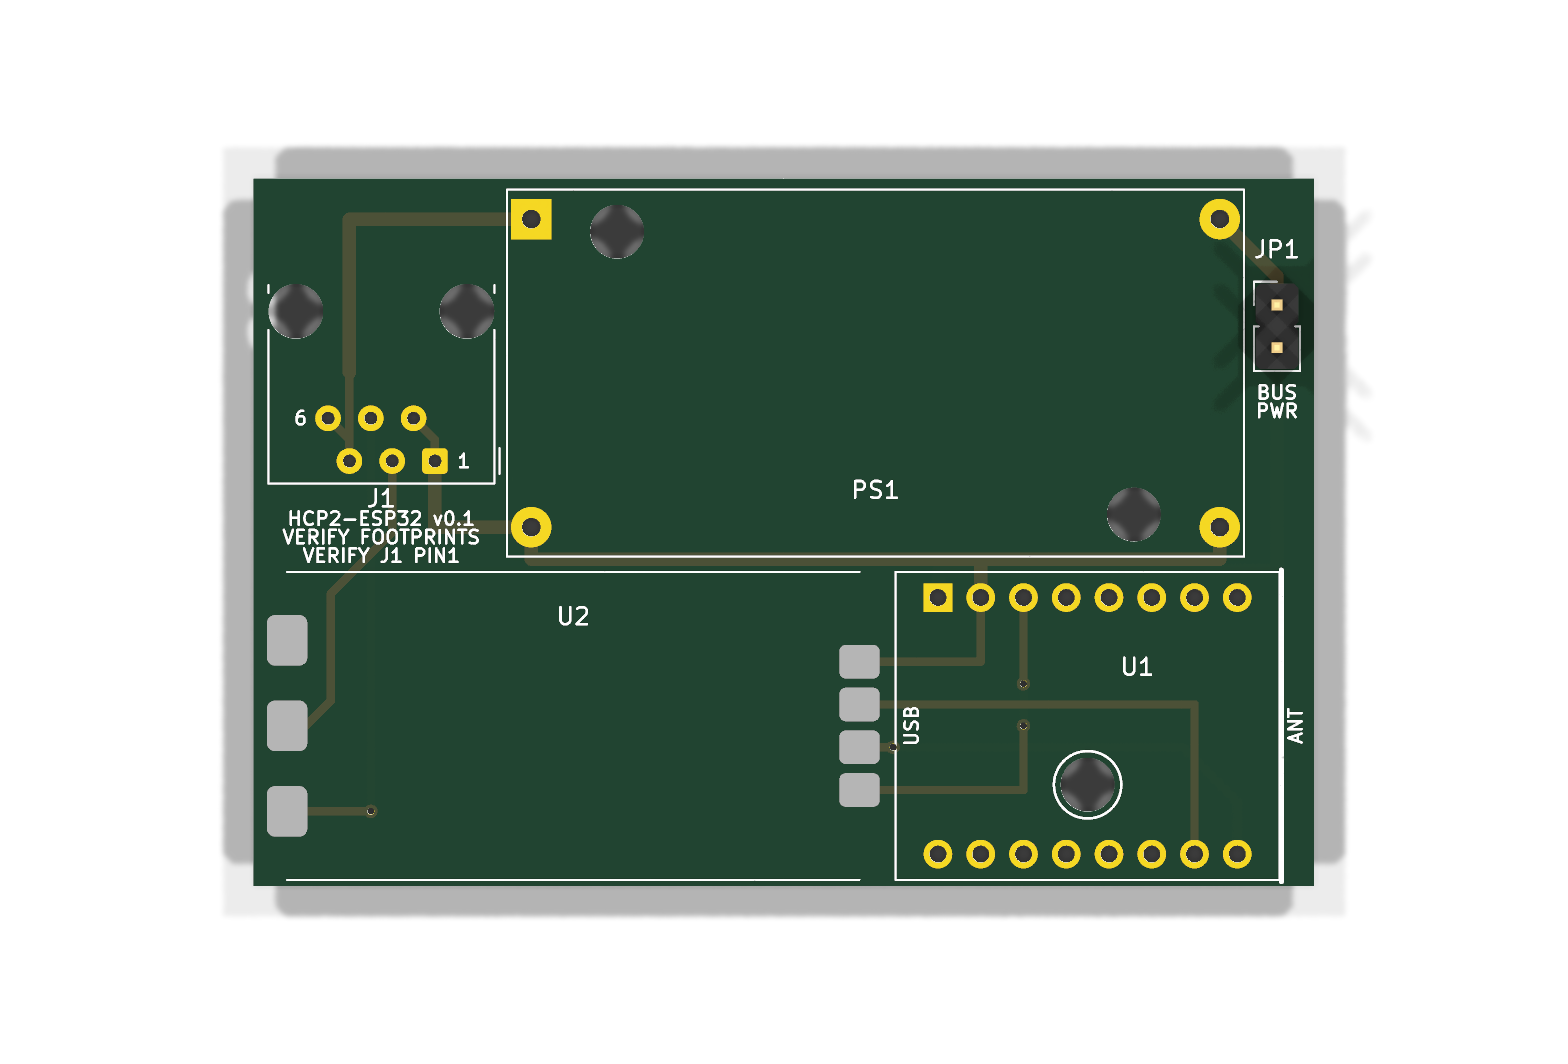
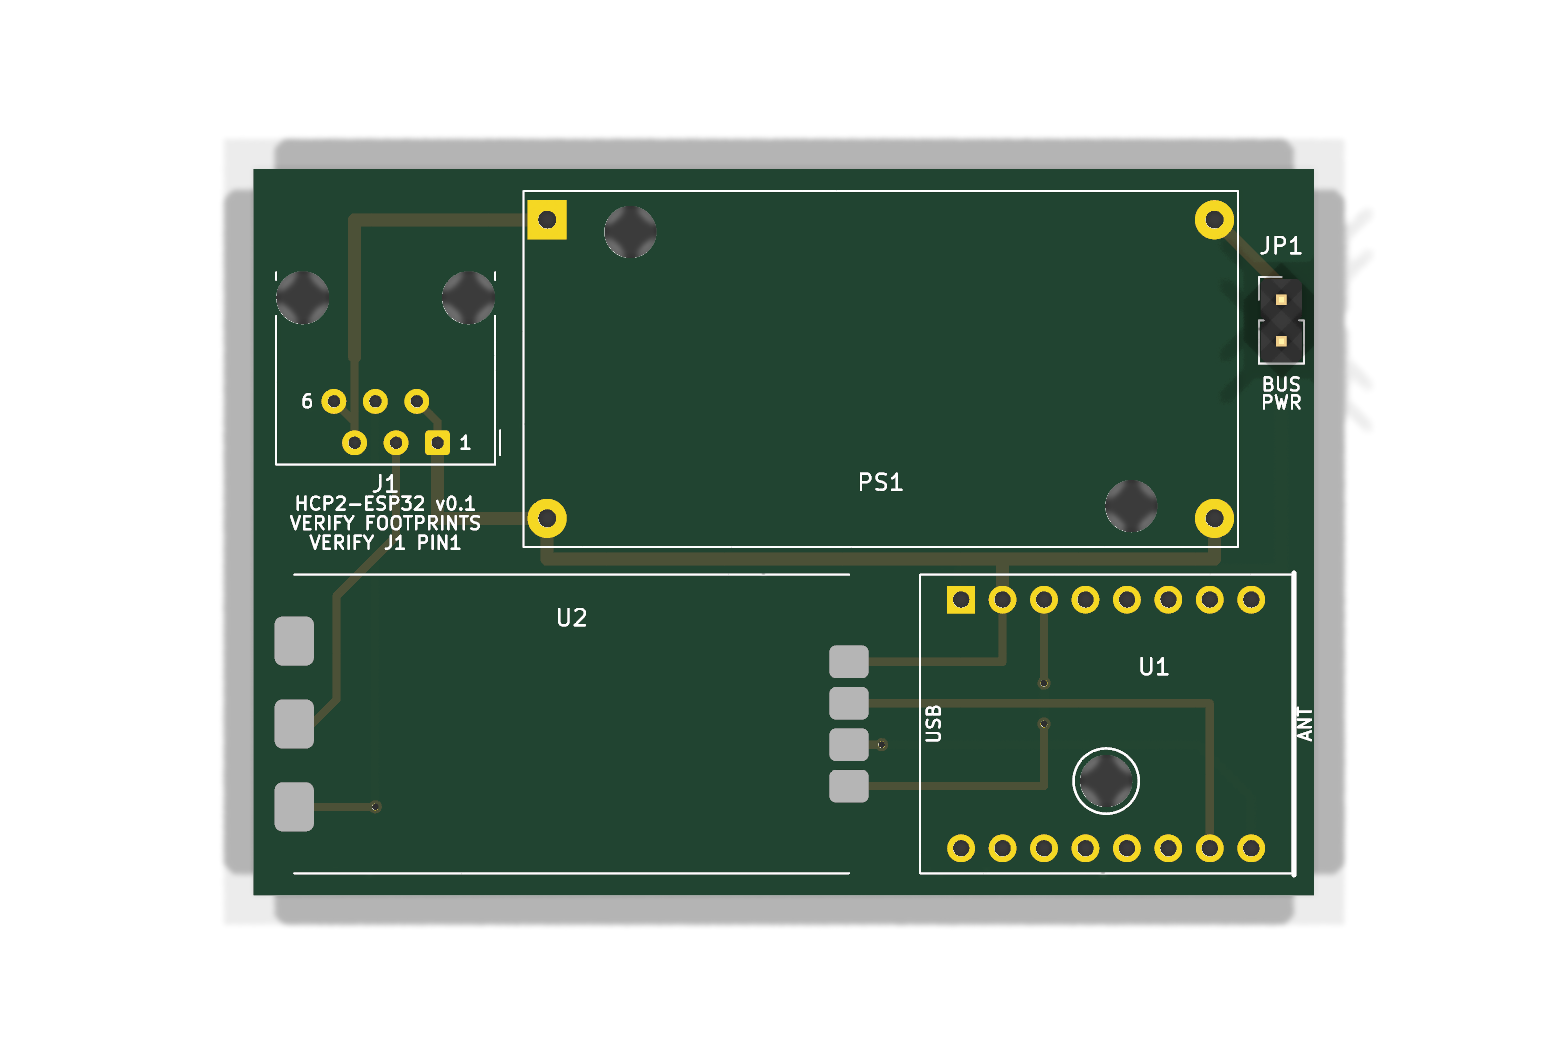
Loosen PCB spacing to 65 x 44.5 mm
About 2 mm between module outlines and 1.5 mm to the board edge.

Changed region(s): [[0.125, 0.1241, 0.875, 0.8684], [0.5312, 0.4342, 0.5938, 0.4652], [0.7188, 0.6203, 0.75, 0.6513]]

diff --git a/hardware/kicad/pcb.py b/hardware/kicad/pcb.py
@@ -20,7 +20,7 @@ BOARD_PATH = OUTPUT_DIR / "hoermann-hcp-adapter.kicad_pcb"
 PREVIEW_PATH = OUTPUT_DIR / "hoermann-hcp-adapter-pcb.png"
 DRC_PATH = OUTPUT_DIR / "hoermann-hcp-adapter-drc.json"
 
-BOARD_W, BOARD_H = 63.0, 42.0
+BOARD_W, BOARD_H = 65.0, 44.5
 SIGNAL, POWER = 0.5, 0.8
 
 NET_NAMES = tuple(EXPECTED_CONNECTIONS)
@@ -42,20 +42,21 @@ FOOTPRINTS = {
 
 # (x, y, rotation). J1 opening faces the top edge, PS1 IN side towards J1, U2 bus side
 # on the left edge under J1, U1 with USB towards U2 and the antenna at the right edge.
+# Roughly 2 mm between module outlines and 1.5 mm to the board edge.
 PLACEMENT = {
-    "J1": (10.78, 16.77, 180),
-    "PS1": (36.95, 11.55, 0),
-    "JP1": (60.8, 7.5, 0),
-    "U2": (19.0, 32.5, 180),
-    "U1": (49.55, 32.5, 90),
-    "H1": (49.55, 36.0, 0),
+    "J1": (11.28, 16.77, 180),
+    "PS1": (38.45, 12.25, 0),
+    "JP1": (63.0, 8.0, 0),
+    "U2": (19.5, 34.0, 180),
+    "U1": (52.26, 34.0, 90),
+    "H1": (52.26, 37.5, 0),
 }
 REFERENCE_POSITIONS = {
-    "J1": (7.6, 19.0),
-    "PS1": (36.95, 18.5),
-    "JP1": (60.8, 4.2),
-    "U2": (19.0, 26.0),
-    "U1": (52.5, 29.0),
+    "J1": (8.1, 19.3),
+    "PS1": (38.45, 19.2),
+    "JP1": (63.0, 4.7),
+    "U2": (19.5, 27.5),
+    "U1": (55.2, 30.5),
 }
 VALUES = {
     "J1": "HCP2 6P6C",
@@ -69,40 +70,40 @@ VALUES = {
 # Points are absolute board coordinates. Pad centres are computed from the footprints
 # and checked against the route vertices in check_routes().
 ROUTES = (
-    ("HCP_25V", "F.Cu", SIGNAL, ((4.43, 14.23), (5.7, 15.5), (5.7, 16.77), (5.7, 11.5))),
-    ("HCP_25V", "F.Cu", POWER, ((5.7, 11.5), (5.7, 2.4), (16.5, 2.4))),
-    ("HCP_GND", "F.Cu", SIGNAL, ((9.51, 14.23), (10.78, 15.5), (10.78, 16.77))),
-    ("HCP_GND", "F.Cu", POWER, ((10.78, 16.77), (10.78, 20.7), (16.5, 20.7), (16.5, 22.6), (57.4, 22.6), (57.4, 20.7))),
-    ("HCP_GND", "F.Cu", POWER, ((43.2, 22.6), (43.2, 24.88))),
-    ("HCP_GND", "F.Cu", SIGNAL, ((43.2, 24.88), (43.2, 28.69), (36.0, 28.69))),
-    ("BUCK_5V", "F.Cu", POWER, ((57.4, 2.4), (60.8, 5.8), (60.8, 7.5))),
-    ("ESP_5V", "B.Cu", POWER, ((60.8, 10.04), (60.8, 23.3), (40.66, 23.3), (40.66, 24.88))),
-    ("ESP_3V3", "F.Cu", SIGNAL, ((45.74, 24.88), (45.74, 30.0))),
-    ("ESP_3V3", "B.Cu", SIGNAL, ((45.74, 30.0), (45.74, 32.5))),
-    ("ESP_3V3", "F.Cu", SIGNAL, ((45.74, 32.5), (45.74, 36.31), (36.0, 36.31))),
-    ("UART_RX_GPIO20", "F.Cu", SIGNAL, ((55.9, 40.12), (55.9, 31.23), (36.0, 31.23))),
-    ("UART_TX_GPIO21", "B.Cu", SIGNAL, ((58.44, 40.12), (58.44, 37.0), (55.21, 33.77), (38.0, 33.77))),
-    ("UART_TX_GPIO21", "F.Cu", SIGNAL, ((38.0, 33.77), (36.0, 33.77))),
-    ("HCP_B_MINUS", "F.Cu", SIGNAL, ((8.24, 16.77), (8.24, 21.0), (4.6, 24.64), (4.6, 31.0), (3.1, 32.5), (2.0, 32.5))),
-    ("HCP_A_PLUS", "B.Cu", SIGNAL, ((6.97, 14.23), (6.97, 37.58))),
-    ("HCP_A_PLUS", "F.Cu", SIGNAL, ((6.97, 37.58), (2.0, 37.58))),
+    ("HCP_25V", "F.Cu", SIGNAL, ((4.93, 14.23), (6.2, 15.5), (6.2, 16.77), (6.2, 11.5))),
+    ("HCP_25V", "F.Cu", POWER, ((6.2, 11.5), (6.2, 3.1), (18.0, 3.1))),
+    ("HCP_GND", "F.Cu", SIGNAL, ((10.01, 14.23), (11.28, 15.5), (11.28, 16.77))),
+    ("HCP_GND", "F.Cu", POWER, ((11.28, 16.77), (11.28, 21.4), (18.0, 21.4), (18.0, 23.9), (58.9, 23.9), (58.9, 21.4))),
+    ("HCP_GND", "F.Cu", POWER, ((45.91, 23.9), (45.91, 26.38))),
+    ("HCP_GND", "F.Cu", SIGNAL, ((45.91, 26.38), (45.91, 30.19), (36.5, 30.19))),
+    ("BUCK_5V", "F.Cu", POWER, ((58.9, 3.1), (63.0, 7.2), (63.0, 8.0))),
+    ("ESP_5V", "B.Cu", POWER, ((63.0, 10.54), (63.0, 24.6), (43.37, 24.6), (43.37, 26.38))),
+    ("ESP_3V3", "F.Cu", SIGNAL, ((48.45, 26.38), (48.45, 31.5))),
+    ("ESP_3V3", "B.Cu", SIGNAL, ((48.45, 31.5), (48.45, 34.0))),
+    ("ESP_3V3", "F.Cu", SIGNAL, ((48.45, 34.0), (48.45, 37.81), (36.5, 37.81))),
+    ("UART_RX_GPIO20", "F.Cu", SIGNAL, ((58.61, 41.62), (58.61, 32.73), (36.5, 32.73))),
+    ("UART_TX_GPIO21", "B.Cu", SIGNAL, ((61.15, 41.62), (61.15, 38.5), (57.92, 35.27), (38.5, 35.27))),
+    ("UART_TX_GPIO21", "F.Cu", SIGNAL, ((38.5, 35.27), (36.5, 35.27))),
+    ("HCP_B_MINUS", "F.Cu", SIGNAL, ((8.74, 16.77), (8.74, 22.5), (5.1, 26.14), (5.1, 32.5), (3.6, 34.0), (2.5, 34.0))),
+    ("HCP_A_PLUS", "B.Cu", SIGNAL, ((7.47, 14.23), (7.47, 39.08))),
+    ("HCP_A_PLUS", "F.Cu", SIGNAL, ((7.47, 39.08), (2.5, 39.08))),
 )
 VIAS = (
-    ("ESP_3V3", 45.74, 30.0),
-    ("ESP_3V3", 45.74, 32.5),
-    ("UART_TX_GPIO21", 38.0, 33.77),
-    ("HCP_A_PLUS", 6.97, 37.58),
+    ("ESP_3V3", 48.45, 31.5),
+    ("ESP_3V3", 48.45, 34.0),
+    ("UART_TX_GPIO21", 38.5, 35.27),
+    ("HCP_A_PLUS", 7.47, 39.08),
 )
 SILK_TEXTS = (
-    ("HCP2-ESP32 v0.1", 7.6, 20.2, 0, 0.8),
-    ("VERIFY FOOTPRINTS", 7.6, 21.3, 0, 0.8),
-    ("VERIFY J1 PIN1", 7.6, 22.4, 0, 0.8),
-    ("1", 12.5, 16.77, 0, 0.8),
-    ("6", 2.8, 14.23, 0, 0.8),
-    ("BUS", 60.8, 12.7, 0, 0.8),
-    ("PWR", 60.8, 13.8, 0, 0.8),
-    ("USB", 39.1, 32.5, 90, 0.8),
-    ("ANT", 61.9, 32.5, 90, 0.8),
+    ("HCP2-ESP32 v0.1", 8.1, 20.5, 0, 0.8),
+    ("VERIFY FOOTPRINTS", 8.1, 21.7, 0, 0.8),
+    ("VERIFY J1 PIN1", 8.1, 22.9, 0, 0.8),
+    ("1", 13.0, 16.77, 0, 0.8),
+    ("6", 3.3, 14.23, 0, 0.8),
+    ("BUS", 63.0, 13.2, 0, 0.8),
+    ("PWR", 63.0, 14.3, 0, 0.8),
+    ("USB", 41.7, 34.0, 90, 0.8),
+    ("ANT", 64.45, 34.0, 90, 0.8),
 )
 
 

diff --git a/docs/decisions.md b/docs/decisions.md
@@ -12,6 +12,6 @@
 | D-008 | 2026-09-05 | festgestellt | Der erste Aufbau ist nicht vollständig galvanisch getrennt. | Der nicht isolierte LM2596 verbindet die Versorgungsmassen. Das RS485-Modul trennt nur den Signalpfad. |
 | D-009 | 2026-09-05 | beschlossen | Der erste Schaltplan wird jetzt aus SKiDL erzeugt, obwohl die Footprints noch offen sind. | Die elektrische Topologie ist bekannt. Ungeprüfte Maße werden nicht benötigt, solange keine Fertigungsfootprints zugewiesen werden. |
 | D-010 | 2026-09-05 | vorläufig beschlossen | Ein vollständig gerouteter PCB-Entwurf wird mit klar gekennzeichneten Platzhalter-Footprints erzeugt. | Damit können Boardgröße, Platzierung und Routing früh geprüft werden. Fertigungsfreigabe erfolgt erst nach Vermessung aller Kaufteile und Festlegung der Schutzbeschaltung. |
-| D-011 | 2026-09-05 | vorläufig beschlossen | Das PCB verwendet 63 × 42 mm mit echten Modul-Footprints statt Platzhaltern. J1 nutzt den KiCad-Footprint des Amphenol 54601 (gleiches Lochbild wie der 95001-Typ), PS1/U2/U1 eigene Footprints aus Händlermaßen. Befestigung über die PS1-Löcher und ein Loch unter U1. | Platz nicht verschwenden, Buchse am Rand. Maße aus Händlerfotos werden vor Fertigung am gelieferten Teil bestätigt. |
+| D-011 | 2026-09-05 | vorläufig beschlossen | Das PCB verwendet 65 × 44,5 mm mit echten Modul-Footprints statt Platzhaltern. J1 nutzt den KiCad-Footprint des Amphenol 54601 (gleiches Lochbild wie der 95001-Typ), PS1/U2/U1 eigene Footprints aus Händlermaßen. Befestigung über die PS1-Löcher und ein Loch unter U1. | Platz nicht verschwenden, Buchse am Rand. Maße aus Händlerfotos werden vor Fertigung am gelieferten Teil bestätigt. |
 
 Neue Entscheidungen erhalten eine fortlaufende ID. Änderungen werden als neuer Eintrag dokumentiert, damit die ursprüngliche Begründung erhalten bleibt.

diff --git a/README.md b/README.md
@@ -71,7 +71,7 @@ uv run python hardware/kicad/pcb.py
 
 Der Generator liest die Footprints aus `HCP.pretty`, platziert und routet sie mit festen Koordinaten, führt den KiCad-DRC aus und rendert das PNG. Der DRC meldet keine Fehler, keine Warnungen und keine offenen Verbindungen.
 
-Platine: zweilagig, 63 × 42 mm, 0,5-mm-Signal- und 0,8-mm-Versorgungsleitungen, vier Vias.
+Platine: zweilagig, 65 × 44,5 mm, 0,5-mm-Signal- und 0,8-mm-Versorgungsleitungen, vier Vias.
 
 | Ref. | Footprint | Lage |
 |---|---|---|
